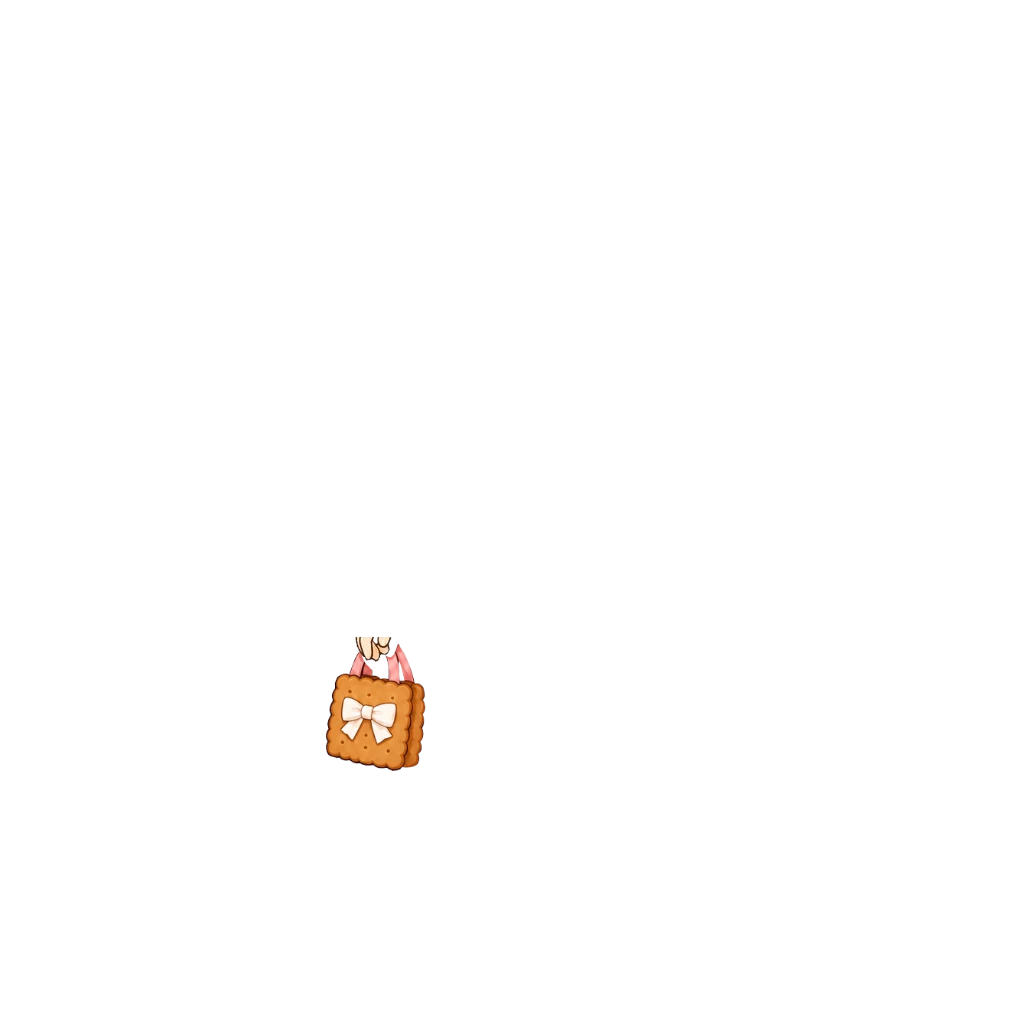
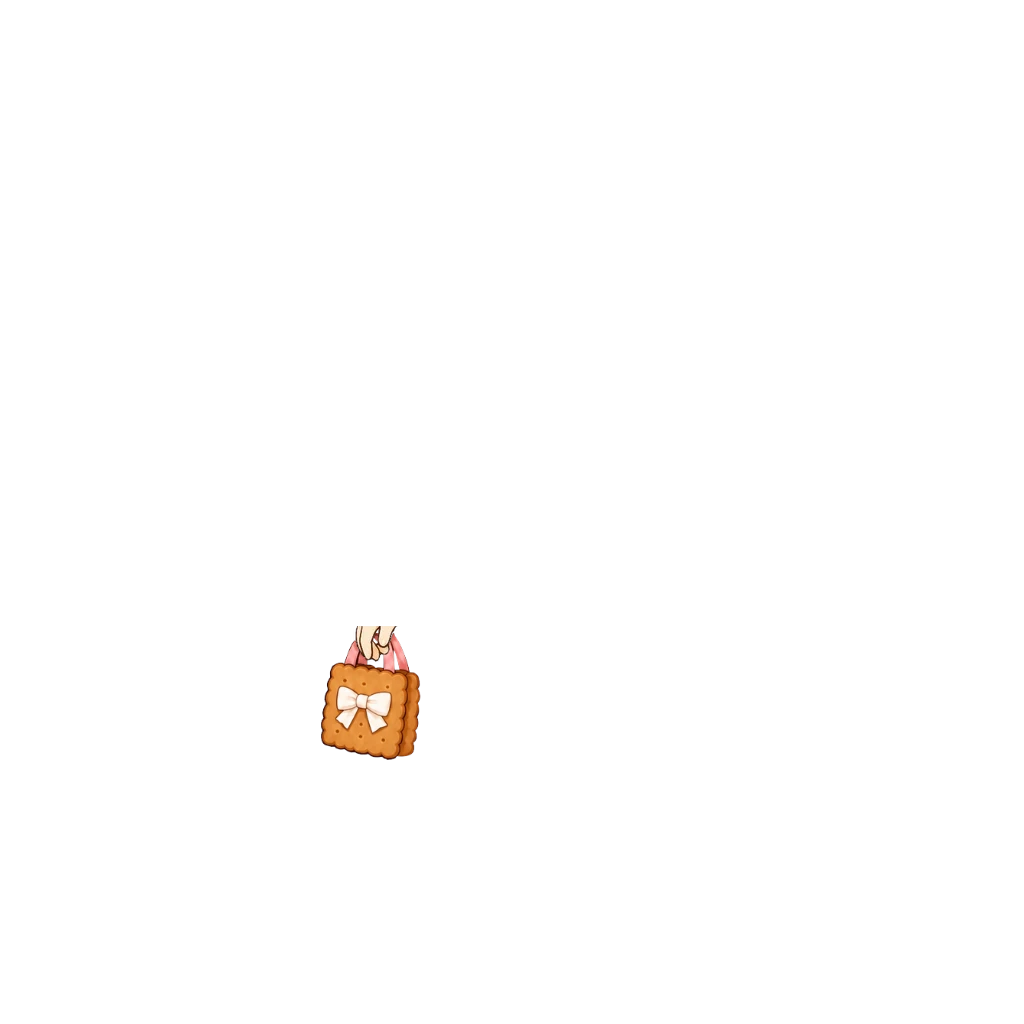
쿠키 가방: 사용자가 고른 후보 자리로 (원점 320,632) (#989)
Claude-Session: https://claude.ai/code/session_018maNuYqDfFyRSe9uKpZhPR

Changed region(s): [[0.3125, 0.5938, 0.4375, 0.75]]

diff --git a/src/data/avatarEquipment.js b/src/data/avatarEquipment.js
@@ -551,8 +551,9 @@ export const AVATAR_CATALOG = [
      사용자 참고 그림(얼굴 매칭 0.919)대로 왼손(화면 기준)에 든다 — 배율 0.765·원점 (324,636). 치마 위로 오게 옷 위(z 48)에 그리고,
      손가락이 손잡이를 쥔 듯 보이게 가방과 겹치는 손(y630~)을 그 위에 다시 그렸다. 상자 (324,630,425,764). 
      [2026-10-11] 손잡이를 손 양옆 선에 맞춤 — 손잡이 위쪽 폭(349~410)을 손 폭(356~398)으로 가로 0.69배, 쿠키 몸통(y652→672) 쪽으로 원래 폭으로 되돌림(?v=2). 
-     [2026-10-11] 손잡이 모양은 원래대로 두고 위치만 — 오른쪽 1·아래로 7(원점 (325,643)) 옮겨 두 손잡이가 손 왼쪽 선·손가락 오른쪽 선에서 나오게. 상자 (325,637,426,771)(?v=3). */
-  { id: "back_cookie_girl", slot: "back", label: "쿠키 가방", emoji: "🍪", price:DECOR_PRICE.rare, rarity: "rare", theme: "common", forGender: "girl", z: 48, img: "assets/avatar/back/cookie-bag-girl.webp?v=3", thumb: "assets/avatar/thumb/back_cookie_girl.webp" },
+     [2026-10-11] 손잡이 모양은 원래대로 두고 위치만 — 오른쪽 1·아래로 7(원점 (325,643)) 옮겨 두 손잡이가 손 왼쪽 선·손가락 오른쪽 선에서 나오게. 상자 (325,637,426,771)(?v=3). 
+     [2026-10-11] 사용자가 후보 그림에서 고른 자리로 — 원점 (320,632). 상자 (320,626,421,760)(?v=4). */
+  { id: "back_cookie_girl", slot: "back", label: "쿠키 가방", emoji: "🍪", price:DECOR_PRICE.rare, rarity: "rare", theme: "common", forGender: "girl", z: 48, img: "assets/avatar/back/cookie-bag-girl.webp?v=4", thumb: "assets/avatar/thumb/back_cookie_girl.webp" },
   /* 우주 부츠 — 우주복 바지 밑단(y1425 근처)에 발목깃이 물리게 맞췄다. */
   /* [2026-10-03] 새 원화로 교체 — 남색·흰 우주 부츠(하늘색 띠·주황 탭) 두 짝, 사용자 원화 352×173. 위 탑재값은 옛 판 기록.
      여아 신발과 같은 방식 — 두 짝을 따로 잘라 원화 부츠목 가운데(왼짝 x85 · 오른짝 x56.5)를 남아 다리 가운데(x450.5 · x574.5)에,

diff --git a/art-src/README.md b/art-src/README.md
@@ -641,4 +641,4 @@ bbox로 여백만 잘라내고 배포본은 높이 480px로 축소했다(전부 
 | strawberry-crossbag-girl-src.webp | **딸기 크로스백 원화 여아 — 가방 (사용자 원화 2026-10-10)** — 라탄 가방·크림 덮개·딸기 장식, 딸기 소풍룩과 짝. 참고 그림(얼굴 매칭 0.917) 위치로 배율 0.73·원점 (586,596), 몸 뒤 z 14. 탑재 상자 (586,596,689,689) → 손끝보다 안 내려가게 위로 36(원점 (586,560)) (586,560,689,653) (img ?v=2) → 끈 고리에 닿게 위로 22(원점 (586,538)) (586,538,689,631) (img ?v=3) → 왼쪽으로 10, 손 왼쪽 경계에서 나눠 손 뒤쪽만 이 장(옷 뒤 z 14) (594,538,679,631) (img ?v=4) → 왼쪽으로 10 더(원점 (566,538)) (590,538,669,631) (img ?v=5). 상점 그림은 원화를 세로 160px 로 | avatar/back/strawberry-crossbag-girl.webp · thumb/back_strawberry_girl.webp |
 | strawberry-crossbag-strap-girl-src.webp | **딸기 크로스백 원화 여아 — 어깨끈 (사용자 원화 2026-10-10)** — 갈색 가죽끈. 왼쪽 어깨(552,386)→가방 고리(598,592)로 ×0.789·-6.2°, 맨 앞 zFront 48. 탑재 상자 (547,386,605,595) → 윗끝을 목 카라 옆 어깨선(580,382)·아래끝 (598,556) (572,382,604,558) (img ?v=2) → 윗끝 카라 바로 옆(574,382)·아래끝 (596,560) (566,382,603,562) (img ?v=3) → 가방의 손 왼쪽 반을 끈과 한 장으로 합쳐 옷 위(zFront 48) (564,382,622,631) (img ?v=4) → 가방 왼쪽으로 10 더, 아래끝 (576,560) (560,382,622,631) (img ?v=5) | avatar/back/strawberry-crossbag-strap-girl.webp |
 | (원본 같음) strawberry-crossbag-*-src.webp | **딸기 크로스백 옷별 나눔 (2026-10-10)** — 같은 위치에서 가방 앞뒤를 옷마다 다르게 나눈 탑재본. 핑크 파티시에: 팔만 빼고 가방 전부 옷 위(리본 꼬리 가림) — 팔 윤곽선까지 비워 팔이 온전히 보이게(?v=2). 리본 꼬리가 팔에 걸친 자리는 팔을 앞장에 다시 그려 덮음(?v=3). 가방 통째로 옷 위 + 팔을 그 위에 다시 그려 팔이 맨 위(?v=4). 달빛 마법사: 소매 윤곽(602,538)→소맷부리(628,600)→손(646,631) 왼쪽까지 옷 위 — 이후 가방 통째로 옷 위 + 소매·손을 실제 윤곽선 따라 그 위에 다시 그림(?v=2) → 리본 꼬리는 가방 아래·소매 가장자리 부드럽게(?v=3) → 덮개 오른쪽 띠를 팔 선 (598,539)→(615,575)까지 소매로 덮음(앞장 ?v=4) | avatar/back/strawberry-crossbag-{,strap-}{bakery,magic}-girl.webp |
-| cookie-bag-girl-src.webp | **쿠키 가방 원화 여아 (사용자 원화 2026-10-11)** — 쿠키 모양 손가방·흰 리본·분홍 손잡이, 핑크 파티시에와 짝. 참고 그림(얼굴 매칭 0.919)대로 왼손(화면 기준)에 — 배율 0.765·원점 (324,636), 옷 위 z 48, 겹치는 손(y630~)을 위에 다시 그림. 손잡이 위쪽을 손 폭(356~398)에 맞게 가로로 좁힘(?v=2). → 모양은 원래대로 되돌리고 위치만 옮겨 손 양옆 선에 맞춤(원점 (325,643), ?v=3). 탑재 상자 (324,630,425,764). 상점 그림은 원화를 세로 160px 로 | avatar/back/cookie-bag-girl.webp · thumb/back_cookie_girl.webp |
+| cookie-bag-girl-src.webp | **쿠키 가방 원화 여아 (사용자 원화 2026-10-11)** — 쿠키 모양 손가방·흰 리본·분홍 손잡이, 핑크 파티시에와 짝. 참고 그림(얼굴 매칭 0.919)대로 왼손(화면 기준)에 — 배율 0.765·원점 (324,636), 옷 위 z 48, 겹치는 손(y630~)을 위에 다시 그림. 손잡이 위쪽을 손 폭(356~398)에 맞게 가로로 좁힘(?v=2). → 모양은 원래대로 되돌리고 위치만 옮겨 손 양옆 선에 맞춤(원점 (325,643), ?v=3). → 사용자가 고른 후보 자리 원점 (320,632)(?v=4). 탑재 상자 (324,630,425,764). 상점 그림은 원화를 세로 160px 로 | avatar/back/cookie-bag-girl.webp · thumb/back_cookie_girl.webp |
